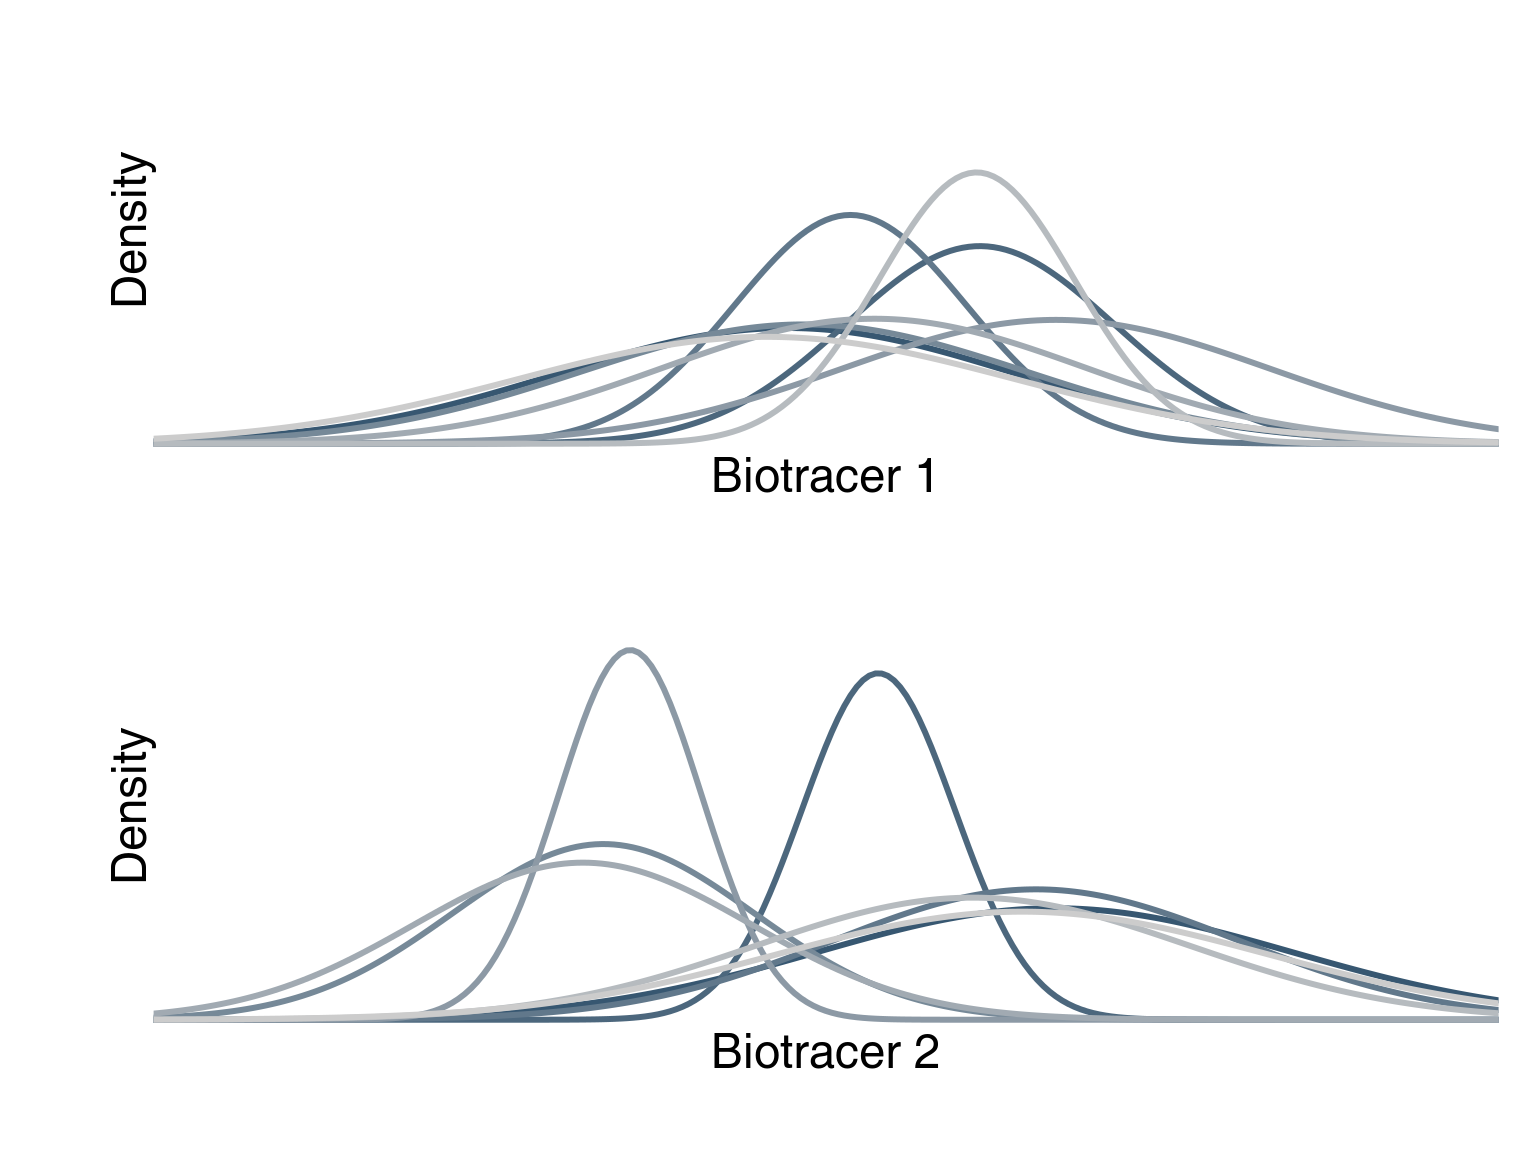
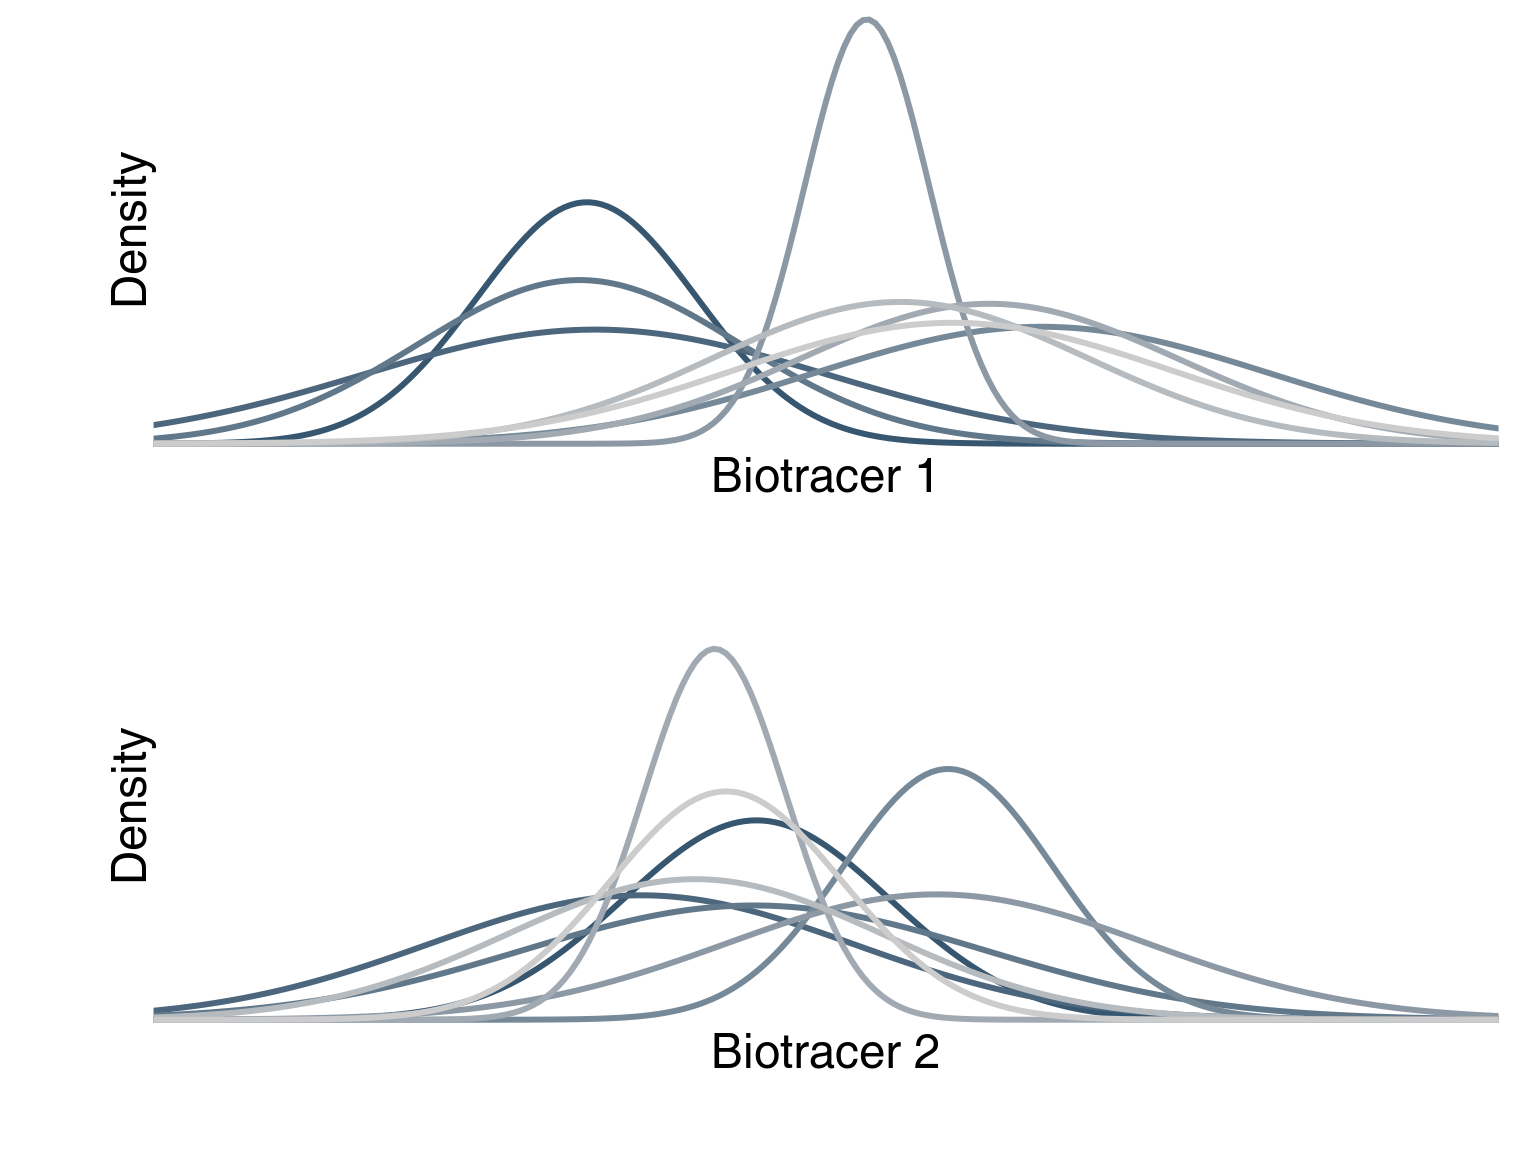
theory outlined

diff --git a/index.html b/index.html
@@ -201,6 +201,35 @@ class: inverse, center, middle
 
 
 ---
+# Results - dissimilarity
+
+&lt;br&gt;
+
+.center[![:scale 90%](img/fig_theo1.png)]
+
+---
+# Results - dimensionality
+
+&lt;br&gt;
+
+.center[![:scale 70%](img/fig_theo2.png)]
+
+---
+# Results - dimensionality
+
+&lt;br&gt;
+
+.center[![:scale 70%](img/fig_theo3.png)]
+
+---
+# Results - spatial correlation
+
+&lt;br&gt;
+
+![:scale 90%](img/fig_theo4.png)
+
+
+---
 # Results
 
 ### The more the biotracers the better!
@@ -208,16 +237,8 @@ class: inverse, center, middle
 The curse of dimensionality in
 becomes the blessing of dimensionality.
 
----
-# Buiilding distribution
-
-- major issue
-- joint distrbution
-- add Noise
 
 
----
-# Spaial distribution
 
 
 
@@ -225,9 +246,33 @@ becomes the blessing of dimensionality.
 ---
 class: inverse, center, middle
 
-# Does it work
+# Applying the framework
+
+## The King crab example
 
 
+---
+# King Crab - data
+
+![](img/mapKC.png)
+
+
+---
+# King Crab - assumptions
+
+![](img/mapKC.png)
+
+- No temporal variation
+
+- Known relatioship between isoscape and tissue ratio
+
+- No mixture
+
+
+---
+# King Crab - results
+
+![:scalec 40%](img/figKC2.png)
 
 
 ---
@@ -298,10 +343,6 @@ class: inverse, center, middle
 
 ---
 # Thanks
-
-##
-
-##
     </textarea>
 <script src="https://remarkjs.com/downloads/remark-latest.min.js"></script>
 <script src="inSileco-macros.js"></script>

diff --git a/inSileco-macros.js b/inSileco-macros.js
@@ -4,6 +4,12 @@ remark.macros.scale = function (percentage) {
   return '<img src="' + url + '" style="width: ' + percentage + '" />';
 };
 
+remark.macros.scalec = function (percentage) {
+  var url = this;
+  return '.center[<img src="' + url + '" style="textwidth: ' + percentage + '" />]';
+};
+
+
 // Font-awesome icons (versio 4.7)
 remark.macros.faic = function (size = 2) {
   var name = this;
